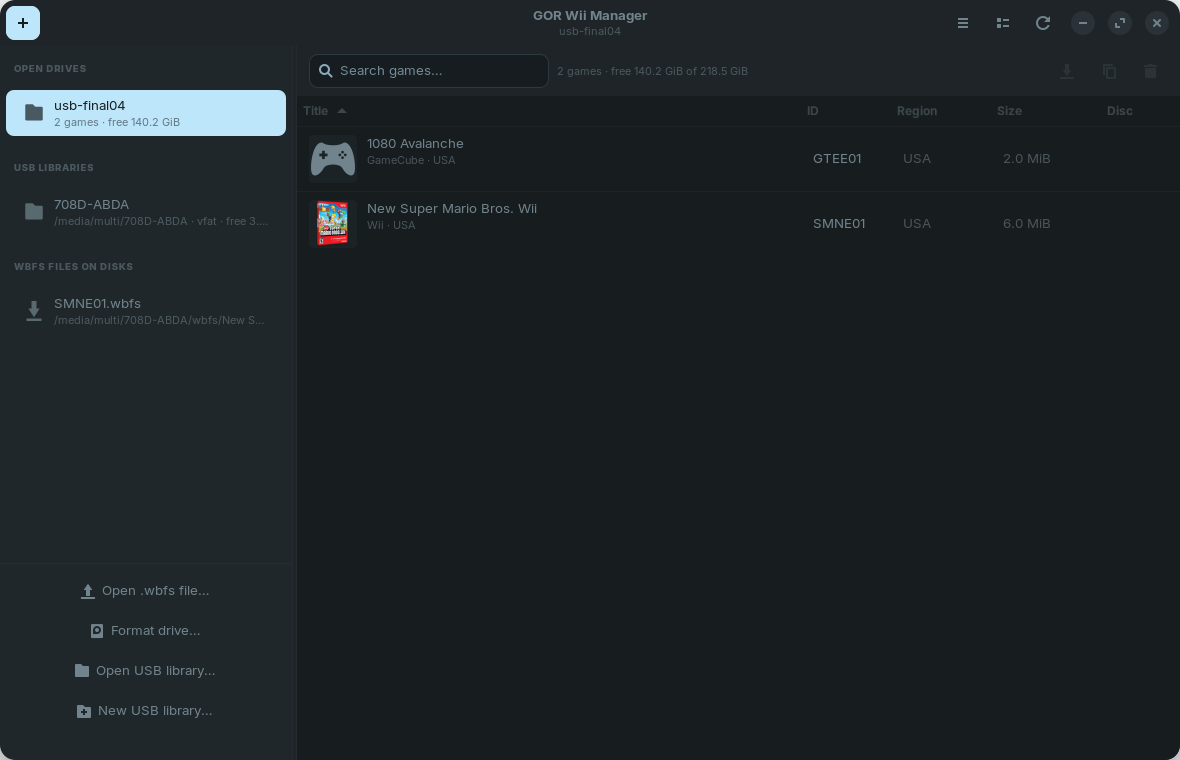
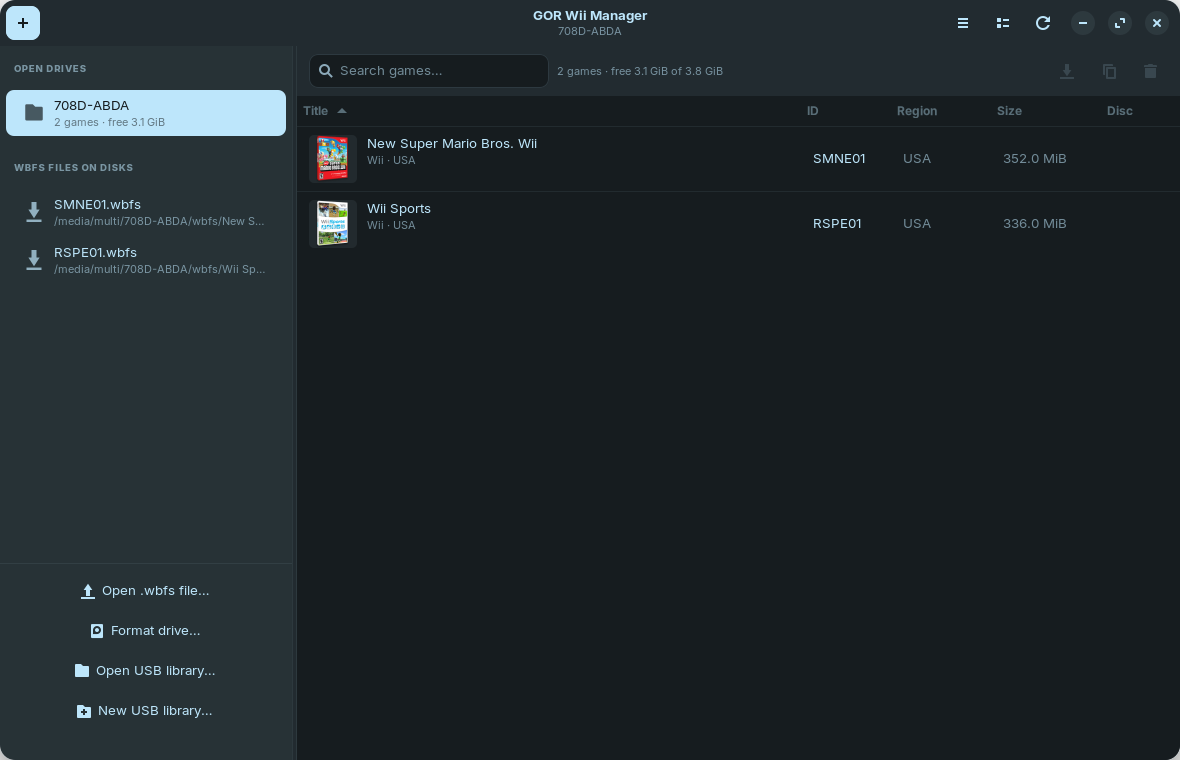
Fix WBFS copies at geometry boundaries (0.6.1)
- Add size_for_used_blocks() and round single-game WBFS targets up to a
  valid geometry, so games with e.g. 160 used blocks (Wii Sports) can be
  copied instead of failing with a false out-of-space error.
- Use the same sizing for RVZ/ISO imports and for free-space estimates.
- Prefer the title database name when importing into a USB folder library.
- Add regression tests for boundary block counts and clone size.

diff --git a/docs/index.html b/docs/index.html
@@ -26,7 +26,7 @@
   <main>
     <section class="hero">
       <div class="hero-text">
-        <span class="badge" data-en="Version 0.6.0 · GPL-2.0" data-pl="Wersja 0.6.0 · GPL-2.0">Version 0.6.0 · GPL-2.0</span>
+        <span class="badge" data-en="Version 0.6.1 · GPL-2.0" data-pl="Wersja 0.6.1 · GPL-2.0">Version 0.6.1 · GPL-2.0</span>
         <h1>GOR Wii Manager</h1>
         <p class="tagline"
            data-en="A native Linux manager for Wii and GameCube game backups. WBFS drives, USB Loader GX folder libraries and RVZ import — without Wine or Dolphin."
@@ -168,7 +168,7 @@
              data-pl="Pobierz najnowszą paczkę z GitHub Releases, a następnie:">
             Download the latest package from GitHub Releases, then:
           </p>
-          <pre><code>sudo apt install ./gor-wii-manager_0.6.0_all.deb</code></pre>
+          <pre><code>sudo apt install ./gor-wii-manager_0.6.1_all.deb</code></pre>
           <p class="small"
              data-en="Requires GTK 4, libadwaita, python3-gi, python3-cryptography, libzstd1, udisks2 and pkexec."
              data-pl="Wymaga GTK 4, libadwaita, python3-gi, python3-cryptography, libzstd1, udisks2 i pkexec.">

diff --git a/tests/test_core.py b/tests/test_core.py
@@ -20,7 +20,11 @@ from gor_wii_manager.core.util import (
     parse_size,
     sanitize_filename,
 )
-from gor_wii_manager.core.wbfs import WbfsVolume, clone_game_to_file
+from gor_wii_manager.core.wbfs import (
+    WbfsVolume,
+    clone_game_to_file,
+    single_game_wbfs_size,
+)
 
 WII_MAGIC = 0x5D1C9EA3
 GC_MAGIC = 0xC2339F3D
@@ -77,6 +81,36 @@ def make_wii_iso(path: str, size: int = 0x800000, with_update: bool = True) -> b
     return bytes(data)
 
 
+def make_boundary_source(path: str, used: int = 8) -> None:
+    """Create a WBFS file whose block count hits the geometry boundary."""
+    volume = WbfsVolume.create(path, 64 * 1024 ** 2, block_size=2 * 1024 ** 2)
+    try:
+        header = bytearray(0x100)
+        header[0:6] = b"RTPP01"
+        header[0x18:0x1C] = be32(WII_MAGIC)
+        header[0x20:0x30] = b"Boundary Test".ljust(0x10, b"\x00")
+        wlba = [0] * volume.geometry.n_wbfs_sec_per_disc
+        for index in range(used):
+            block = volume._allocate_block()
+            volume.io.pwrite(
+                volume.geometry.block_byte_offset(block),
+                bytes([index + 1]) * 4096,
+            )
+            wlba[index] = block
+        slot = bytearray(volume.geometry.disc_info_sz)
+        slot[:0x100] = header
+        for index, value in enumerate(wlba):
+            if value:
+                slot[0x100 + index * 2:0x102 + index * 2] = int(
+                    value
+                ).to_bytes(2, "big")
+        volume.io.pwrite(volume.geometry.slot_byte_offset(0), bytes(slot))
+        volume._table_set(0, True)
+        volume.save()
+    finally:
+        volume.close()
+
+
 def make_gc_iso(path: str, size: int = 0x200000) -> bytes:
     data = bytearray(size)
     data[0:6] = b"GTEE01"
@@ -122,6 +156,18 @@ class GeometryTests(unittest.TestCase):
     def test_bad_header_rejected(self) -> None:
         with self.assertRaises(Exception):
             layout.parse_geometry(b"NOPE" + b"\x00" * 508)
+
+    def test_size_for_used_blocks_respects_geometry(self) -> None:
+        block = 2 * 1024 ** 2
+        for used in (1, 7, 8, 9, 159, 160, 161, 175):
+            size = layout.size_for_used_blocks(used, block)
+            geometry = layout.choose_geometry(size, block_size=block)
+            self.assertGreaterEqual(
+                geometry.n_wbfs_sec - 1,
+                used,
+                f"za mało bloków dla {used}",
+            )
+            self.assertEqual(size, geometry.total_bytes)
 
     def test_bitmap_bits(self) -> None:
         geometry = layout.choose_geometry(32 * 1024 ** 2)
@@ -287,10 +333,15 @@ class WbfsVolumeTests(TempDirTestCase):
         with IsoSource(iso) as source:
             entry = volume.add_disc(source, mode="remove_update")
         output = self.path("cloned.wbfs")
+        expected_size = single_game_wbfs_size(volume, entry)
         clone_game_to_file(volume, entry, output, title="Cloned")
-        self.assertEqual(
-            os.path.getsize(output),
-            (entry.blocks + 1) * volume.geometry.wbfs_sec_sz,
+        self.assertEqual(os.path.getsize(output), expected_size)
+        self.assertGreaterEqual(
+            layout.choose_geometry(
+                expected_size, block_size=volume.geometry.wbfs_sec_sz
+            ).n_wbfs_sec
+            - 1,
+            entry.blocks,
         )
         clone = WbfsVolume.open(output)
         try:
@@ -300,6 +351,30 @@ class WbfsVolumeTests(TempDirTestCase):
             self.assertEqual(games[0].title, "Cloned")
         finally:
             clone.close()
+            volume.close()
+
+    def test_clone_at_geometry_boundary(self) -> None:
+        source_path = self.path("boundary.wbfs")
+        make_boundary_source(source_path, used=8)
+        volume = WbfsVolume.open(source_path, read_only=True)
+        try:
+            entry = volume.games()[0]
+            self.assertEqual(entry.blocks, 8)
+            output = self.path("boundary-clone.wbfs")
+            clone_game_to_file(volume, entry, output, title="Boundary Test")
+            geometry = layout.choose_geometry(
+                os.path.getsize(output), block_size=2 * 1024 ** 2
+            )
+            self.assertGreaterEqual(geometry.n_wbfs_sec - 1, 8)
+            clone = WbfsVolume.open(output, read_only=True)
+            try:
+                games = clone.games()
+                self.assertEqual(games[0].disc_id, entry.disc_id)
+                self.assertEqual(games[0].blocks, 8)
+                self.assertEqual(games[0].title, "Boundary Test")
+            finally:
+                clone.close()
+        finally:
             volume.close()
 
     def test_sparse_copy_between_wbfs_volumes(self) -> None:

diff --git a/src/gor_wii_manager/ui/window.py b/src/gor_wii_manager/ui/window.py
@@ -1140,6 +1140,18 @@ class MainWindow(Adw.ApplicationWindow):
         verify_after = bool(self.settings.get("verify_after_import", False))
         volume = state.volume
         target_label = state.label
+        is_library = getattr(volume, "is_folder_library", False)
+
+        def add_source(source, title: str, job) -> None:
+            kwargs = {
+                "mode": scrub,
+                "progress": lambda done, total: job.progress(done, total),
+                "cancel": job.cancel_event,
+                "replace": replace,
+            }
+            if is_library:
+                kwargs["title"] = title
+            volume.add_disc(source, **kwargs)
 
         def runner(job):
             skipped: list[str] = []
@@ -1157,13 +1169,13 @@ class MainWindow(Adw.ApplicationWindow):
                                 if job.cancel_event.is_set():
                                     raise CancelledError("operacja anulowana")
                                 job.detail = f"{os.path.basename(path)} — {entry.disc_id}"
+                                title = (
+                                    self.titles.get(entry.disc_id)
+                                    or entry.title
+                                )
                                 try:
-                                    volume.add_disc(
-                                        source_volume.source(entry),
-                                        mode=scrub,
-                                        progress=lambda done, total: job.progress(done, total),
-                                        cancel=job.cancel_event,
-                                        replace=replace,
+                                    add_source(
+                                        source_volume.source(entry), title, job
                                     )
                                 except DuplicateDiscError as error:
                                     skipped.append(str(error))
@@ -1171,14 +1183,12 @@ class MainWindow(Adw.ApplicationWindow):
                             source_volume.close()
                     else:
                         with open_disc_source(path) as source:
+                            title = (
+                                self.titles.get(source.info.disc_id)
+                                or source.info.title
+                            )
                             try:
-                                volume.add_disc(
-                                    source,
-                                    mode=scrub,
-                                    progress=lambda done, total: job.progress(done, total),
-                                    cancel=job.cancel_event,
-                                    replace=replace,
-                                )
+                                add_source(source, title, job)
                             except DuplicateDiscError as error:
                                 skipped.append(str(error))
                 except CancelledError:

diff --git a/src/gor_wii_manager/core/library.py b/src/gor_wii_manager/core/library.py
@@ -28,7 +28,14 @@ from .util import (
     is_fat,
     human_size,
 )
-from .wbfs import GameEntry, WbfsSource, WbfsVolume, clone_game_to_file
+from . import wbfs_layout as layout
+from .wbfs import (
+    GameEntry,
+    WbfsSource,
+    WbfsVolume,
+    clone_game_to_file,
+    single_game_wbfs_size,
+)
 
 FAT_FILESYSTEMS = {"vfat", "msdos", "fat", "fat32"}
 LIBRARY_FILESYSTEMS = {"vfat", "msdos", "fat", "fat32", "exfat", "ntfs", "ext2", "ext3", "ext4", "btrfs", "xfs"}
@@ -306,20 +313,31 @@ class LibraryItem:
         return self.info.size if self.info is not None else 0
 
     def estimated_size(self, profile: str, scrub: str) -> int:
-        if self.source_kind == "folder" and self.folder_game is not None:
-            return self.folder_game.iso_size_bytes if self.is_gc else self.folder_game.size_bytes
         if self.is_gc:
             return self.iso_size()
+        if self.source_kind == "folder" and self.folder_game is not None:
+            game = self.folder_game
+            if (
+                getattr(game, "container", "") == "wbfs"
+                and game.geometry is not None
+                and game.blocks
+            ):
+                return layout.size_for_used_blocks(
+                    game.blocks,
+                    game.geometry.wbfs_sec_sz,
+                    hd_sec_sz=game.geometry.hd_sec_sz,
+                )
+            return game.size_bytes
         if self.source_kind == "wbfs" and self.volume is not None and self.entry is not None:
-            return self.entry.stored_size(self.volume.geometry) + 2 * 1024 * 1024
+            return single_game_wbfs_size(self.volume, self.entry)
         if self.source_kind == "object":
             source = self.object_source
             if isinstance(source, WbfsSource):
-                return source.entry.stored_size(source.volume.geometry) + 2 * 1024 * 1024
+                return single_game_wbfs_size(source.volume, source.entry)
             volume = getattr(source, "wbfs_volume", None)
             entry = getattr(source, "wbfs_entry", None)
             if volume is not None and entry is not None:
-                return entry.stored_size(volume.geometry) + 2 * 1024 * 1024
+                return single_game_wbfs_size(volume, entry)
             # The source is consumed later by the exporter; do not close it here.
             return estimate_wii_wbfs_size(self.open_source(), scrub)
         source = self.open_source()

diff --git a/src/gor_wii_manager/core/wbfs_layout.py b/src/gor_wii_manager/core/wbfs_layout.py
@@ -136,6 +136,35 @@ def choose_geometry(
     )
 
 
+def size_for_used_blocks(
+    used: int,
+    block_size: int,
+    hd_sec_sz: int = 512,
+) -> int:
+    """Smallest valid WBFS file size that can hold ``used`` data blocks.
+
+    WBFS geometry rounds the block count down to 16 MiB boundaries, so a file
+    sized as ``(used + 1) * block_size`` can report fewer usable blocks than
+    requested.  This helper rounds up until the geometry really has room for
+    all data blocks (block 0 is reserved for the header).
+    """
+    if used <= 0:
+        raise ValueError("liczba bloków musi być większa od zera")
+    if used >= 0xFFFF:
+        raise ValueError("zbyt wiele bloków WBFS dla 16-bitowej tablicy")
+    if block_size & (block_size - 1):
+        raise ValueError("rozmiar bloku musi być potęgą dwójki")
+    step = WII_SECTOR * hd_sec_sz
+    size = align_up((used + 1) * block_size, step)
+    while True:
+        geometry = choose_geometry(
+            size, hd_sec_sz=hd_sec_sz, block_size=block_size
+        )
+        if geometry.n_wbfs_sec - 1 >= used:
+            return geometry.total_bytes
+        size += step
+
+
 def parse_geometry(header: bytes) -> Geometry:
     if len(header) < WBFS_HEADER_FIXED or header[:4] != WBFS_MAGIC:
         raise CorruptVolumeError("to nie jest obraz WBFS (zły nagłówek)")

diff --git a/src/gor_wii_manager/core/convert.py b/src/gor_wii_manager/core/convert.py
@@ -7,7 +7,7 @@ import os
 from .disc import build_usage
 from .util import CancelledError, WbfsError
 from .wbfs import WbfsVolume
-from .wbfs_layout import MIN_BLOCK_SIZE, WII_SECTOR
+from .wbfs_layout import MIN_BLOCK_SIZE, WII_SECTOR, size_for_used_blocks
 
 MAX_ISO_CHUNK = 4 * 1024 * 1024
 
@@ -55,7 +55,9 @@ def source_to_iso(
 def estimate_wii_wbfs_size(source, mode: str = "remove_update") -> int:
     """Upper bound for a single-game .wbfs file created from a Wii source."""
     needed, _total = _needed_blocks(source, mode)
-    return (needed + 1) * MIN_BLOCK_SIZE
+    if needed <= 0:
+        return MIN_BLOCK_SIZE
+    return size_for_used_blocks(needed, MIN_BLOCK_SIZE)
 
 
 def _needed_blocks(source, mode: str) -> tuple[int, int]:
@@ -83,7 +85,7 @@ def source_to_wbfs(
     needed, _total = _needed_blocks(source, mode)
     if needed <= 0:
         raise WbfsError("obraz nie zawiera danych do zapisania")
-    size = (needed + 1) * MIN_BLOCK_SIZE
+    size = size_for_used_blocks(needed, MIN_BLOCK_SIZE)
     volume = WbfsVolume.create(
         destination, size, block_size=MIN_BLOCK_SIZE, split=split
     )

diff --git a/src/gor_wii_manager/core/wbfs.py b/src/gor_wii_manager/core/wbfs.py
@@ -819,6 +819,21 @@ def _wbfs_source_usage(source: "WbfsSource") -> Usage:
     return Usage(table=table, total_used_bytes=sum(table) * WII_SECTOR)
 
 
+def single_game_wbfs_size(
+    source: "WbfsVolume",
+    entry: GameEntry,
+    block_size: int | None = None,
+) -> int:
+    """Minimal valid single-game WBFS size for an existing game entry."""
+    used = sum(1 for block in entry.wlba if block)
+    if not used:
+        raise WbfsError("gra nie zawiera żadnych bloków danych")
+    block_size = block_size or source.geometry.wbfs_sec_sz
+    return layout.size_for_used_blocks(
+        used, block_size, hd_sec_sz=source.geometry.hd_sec_sz
+    )
+
+
 def clone_game_to_file(
     source: "WbfsVolume",
     entry: GameEntry,
@@ -840,7 +855,7 @@ def clone_game_to_file(
     block_size = source.geometry.wbfs_sec_sz
     target = WbfsVolume.create(
         destination,
-        (len(used) + 1) * block_size,
+        single_game_wbfs_size(source, entry, block_size),
         block_size=block_size,
         split=split,
     )

diff --git a/tests/test_folder_library.py b/tests/test_folder_library.py
@@ -21,7 +21,7 @@ from gor_wii_manager.core.library import (
     LibraryItem,
     LibraryOptions,
 )
-from gor_wii_manager.core.wbfs import WbfsVolume
+from gor_wii_manager.core.wbfs import WbfsVolume, single_game_wbfs_size
 
 from test_core import make_gc_iso, make_wii_iso
 
@@ -166,8 +166,11 @@ class FolderLibraryTests(unittest.TestCase):
             entry = volume.games()[0]
             item = LibraryItem.from_object_source(volume.source(entry))
             estimate = item.estimated_size("auto", "remove_update")
-            expected = entry.stored_size(volume.geometry) + 2 * 1024 * 1024
+            expected = single_game_wbfs_size(volume, entry)
             self.assertEqual(estimate, expected)
+            self.assertGreaterEqual(
+                expected, entry.stored_size(volume.geometry)
+            )
             self.assertLess(estimate, 1024 * 1024 ** 2)
         finally:
             volume.close()

diff --git a/src/gor_wii_manager/core/folder_library.py b/src/gor_wii_manager/core/folder_library.py
@@ -304,12 +304,13 @@ class FolderLibrary:
         progress=None,
         cancel=None,
         replace: bool = False,
+        title: str | None = None,
     ):
         info = source.info
         existing = self.find_game(info.disc_id)
         if existing is not None and not replace:
             raise DuplicateDiscError(info.disc_id, 0, existing.title)
-        title = info.title or info.disc_id
+        title = title or info.title or info.disc_id
         item = LibraryItem.from_object_source(source, title)
         options = LibraryOptions(
             base_path=self.path,

diff --git a/src/gor_wii_manager/core/settings.py b/src/gor_wii_manager/core/settings.py
@@ -8,7 +8,7 @@ import shutil
 
 APP_ID = "io.github.gor.GorWiiManager"
 APP_NAME = "GOR Wii Manager"
-APP_VERSION = "0.6.0"
+APP_VERSION = "0.6.1"
 
 APP_DIR_NAME = "gor-wii-manager"
 LEGACY_DIR_NAME = "wbfs-manager"

diff --git a/README.md b/README.md
@@ -67,7 +67,7 @@ sudo apt install python3-gi gir1.2-gtk-4.0 gir1.2-adw-1 \
 
 ```bash
 make deb
-sudo apt install ./dist/gor-wii-manager_0.6.0_all.deb
+sudo apt install ./dist/gor-wii-manager_0.6.1_all.deb
 ```
 
 Aplikacja pojawi się w menu jako **GOR Wii Manager**, a w terminalu jako
